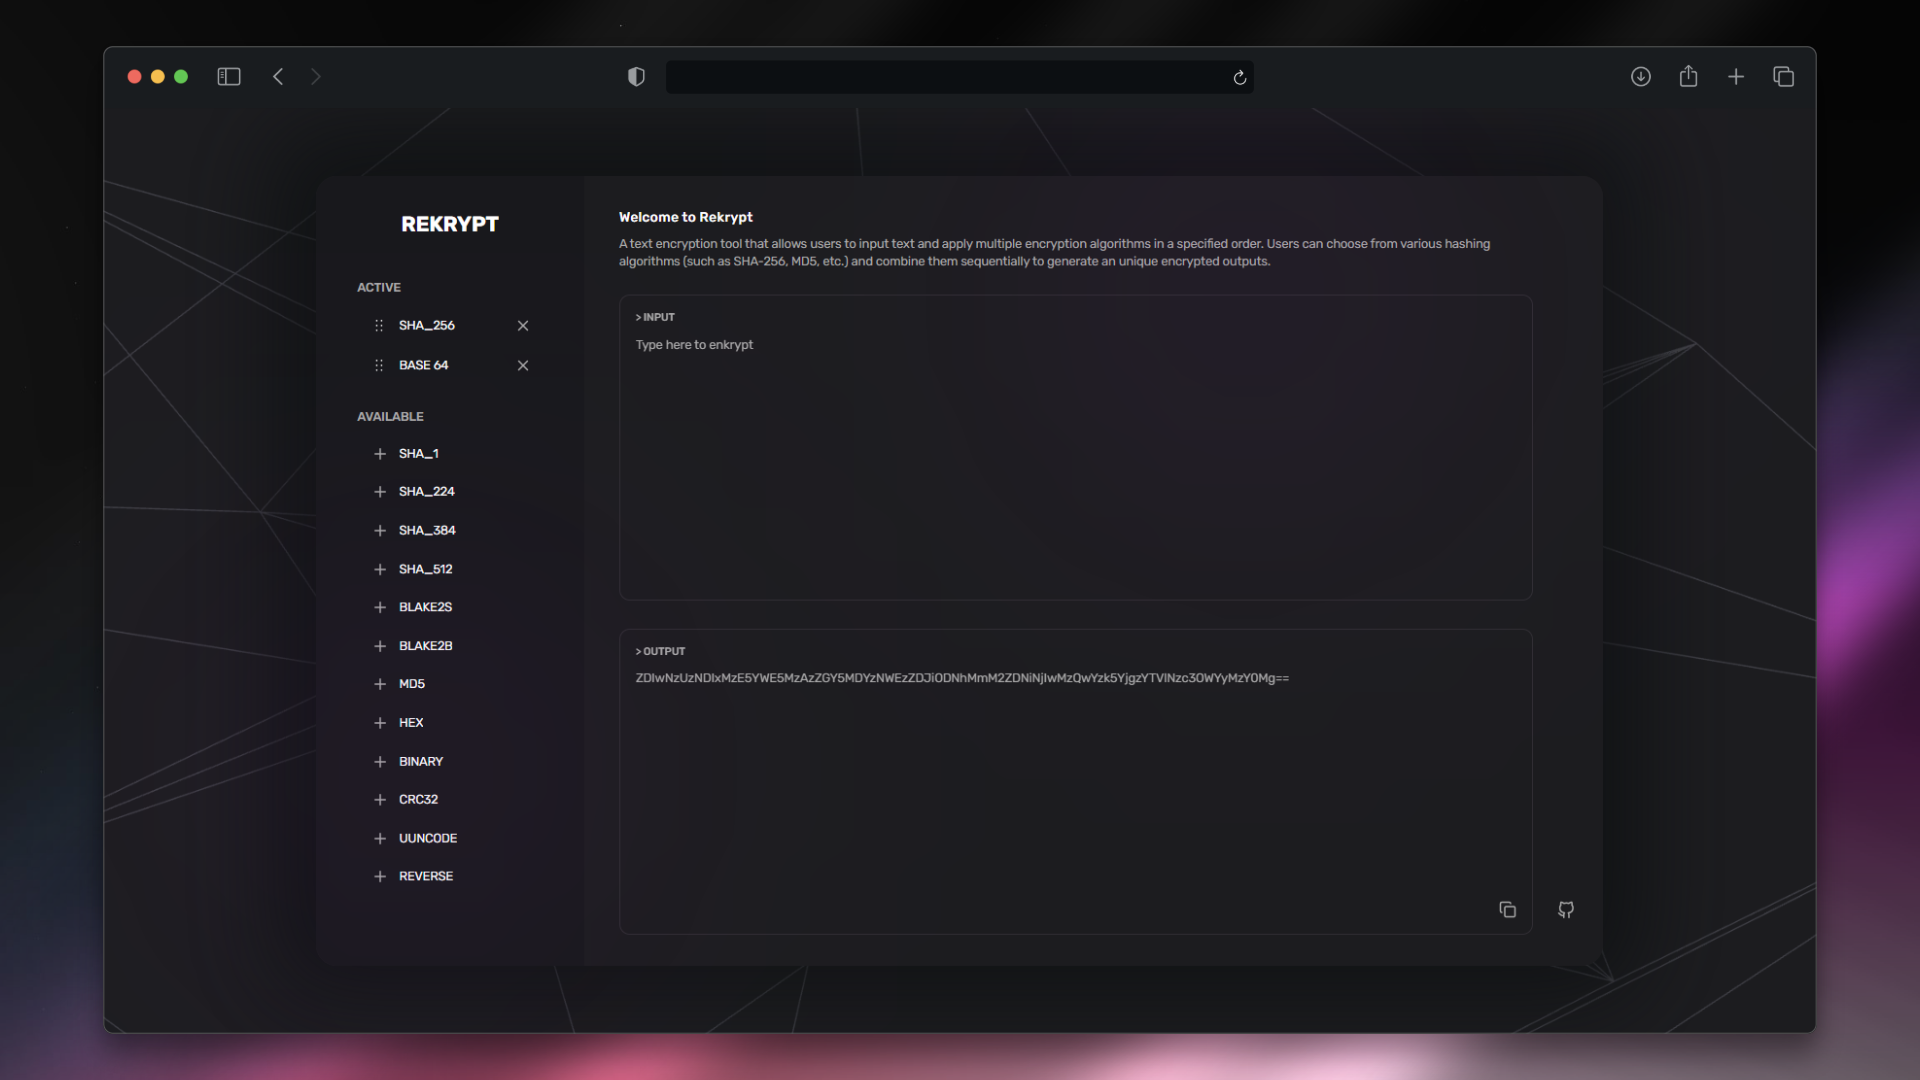
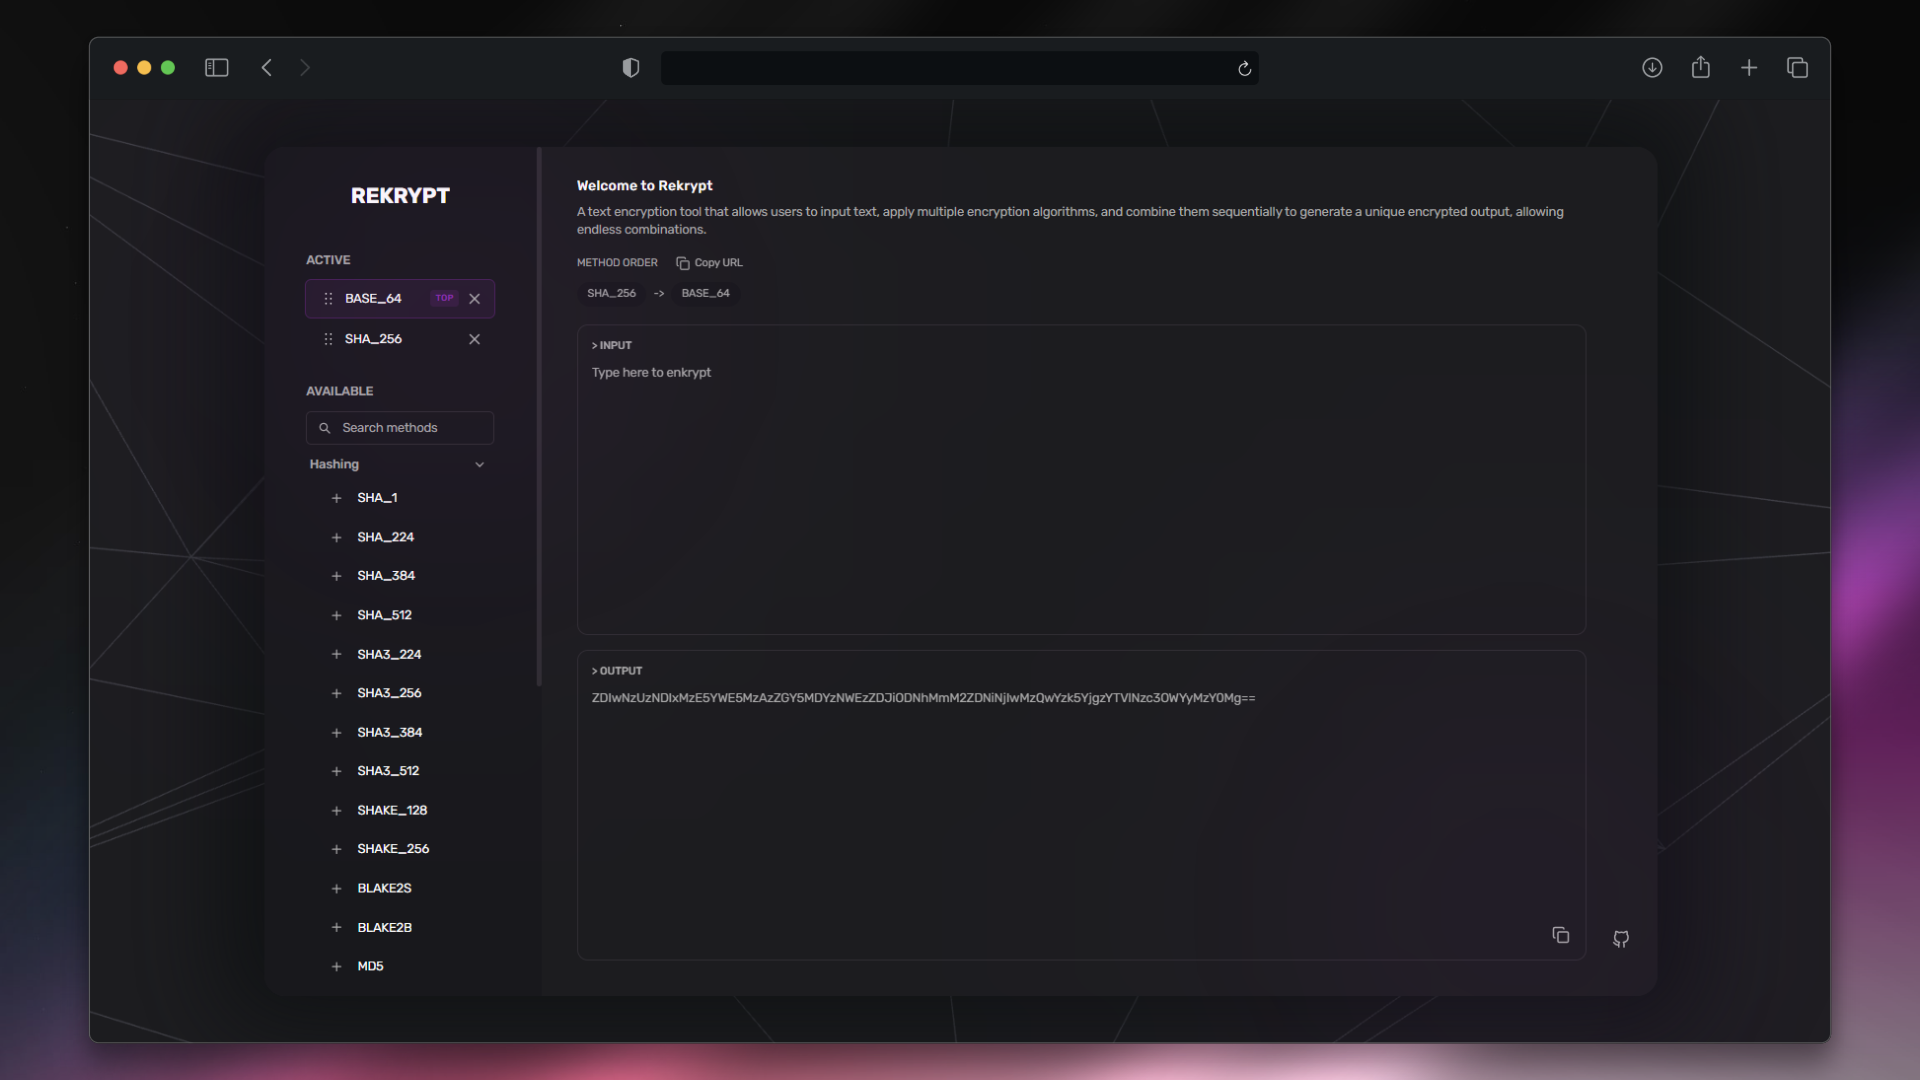
docs(readme): update image preview, Features and Project Structure

diff --git a/frontend/src/App.tsx b/frontend/src/App.tsx
@@ -42,8 +42,8 @@ function App() {
         </div>
 
         {/* */}
-        <BlurCircle x={150} y={550} size={420} color="rgba(140, 47, 173, 0.28)"/>
-        <BlurCircle x={1100} y={10} size={420} color="rgba(140, 47, 173, 0.28)"/>
+        <BlurCircle x={200} y={50} size={420} color="rgba(140, 47, 173, 0.28)"/>
+        <BlurCircle x={1400} y={700} size={420} color="rgba(140, 47, 173, 0.28)"/>
       </main>
 
       {/* */}

diff --git a/README.md b/README.md
@@ -10,10 +10,15 @@ Web app to **transform text by applying multiple encoders and hashing algorithms
 
 ## ✨ Features
 
-- **Method chaining**: the output of each method is the input of the next one.
-- **Multiple algorithms**: SHA-1, SHA-224, SHA-256, SHA-384, SHA-512, BLAKE2s, BLAKE2b, MD5, CRC32, Hex, Base64, Binary, UUencode, and Reverse.
-- **Customizable order**: add, remove, and reorder methods to change the result.
-- **Real-time transformation** with a live preview of the result.
+- **Method chaining:** the output of each method is the input of the next one.
+- **Multiple algorithms:** SHA-1, SHA-256, SHA-512, BLAKE2s, BLAKE2b, MD5, CRC32, Hex, Base64, Binary, UUencode, and more!.
+- **Organized by category:** available methods are grouped into collapsible sections (Hashing, Encoding, Checksums, Ciphers & Text).
+- **Method search:** filter the available methods as you type; matching categories open automatically.
+- **Customizable order:** add, remove, and reorder methods (click or drag and drop) to change the result.
+- **Final method indicator:** the last method in the chain is highlighted with a "Result" badge, so it's clear which one produces the output.
+- **Shareable chains:** the URL updates with the current combination of methods, so you can bookmark it or share it and the same chain loads automatically.
+- **Real-time transformation:** live preview of the result as you change the chain.
+- **Modern, responsive UI:** built with Tailwind CSS and React Three Fiber.
 
 ## 🛠 Tech Stack
 
@@ -96,8 +101,9 @@ rekrypt/
         ├── api/            # Axios client
         ├── components/     # UI components
         │   ├── icons/      # SVG icon components
-        │   └── methods/    # Methods lists (ACTIVE/AVAILABLE) with drag and drop
-        └── sections/       # Main sections
+        │   └── methods/    # ACTIVE/AVAILABLE lists: drag and drop, categories, search
+        ├── hooks/          # Custom React hooks
+        └── sections/       # Main page sections
 ```
 
 ## 💜 Contributing
@@ -106,4 +112,4 @@ Contributions are welcome! If you'd like to improve Rekrypt or add more encoders
 
 ---
 
-Made with ❤ by [Maickol Rivera](https://github.com/MaickolRivera)
+Made with ♥ by [Maickol Rivera](https://github.com/MaickolRivera)
